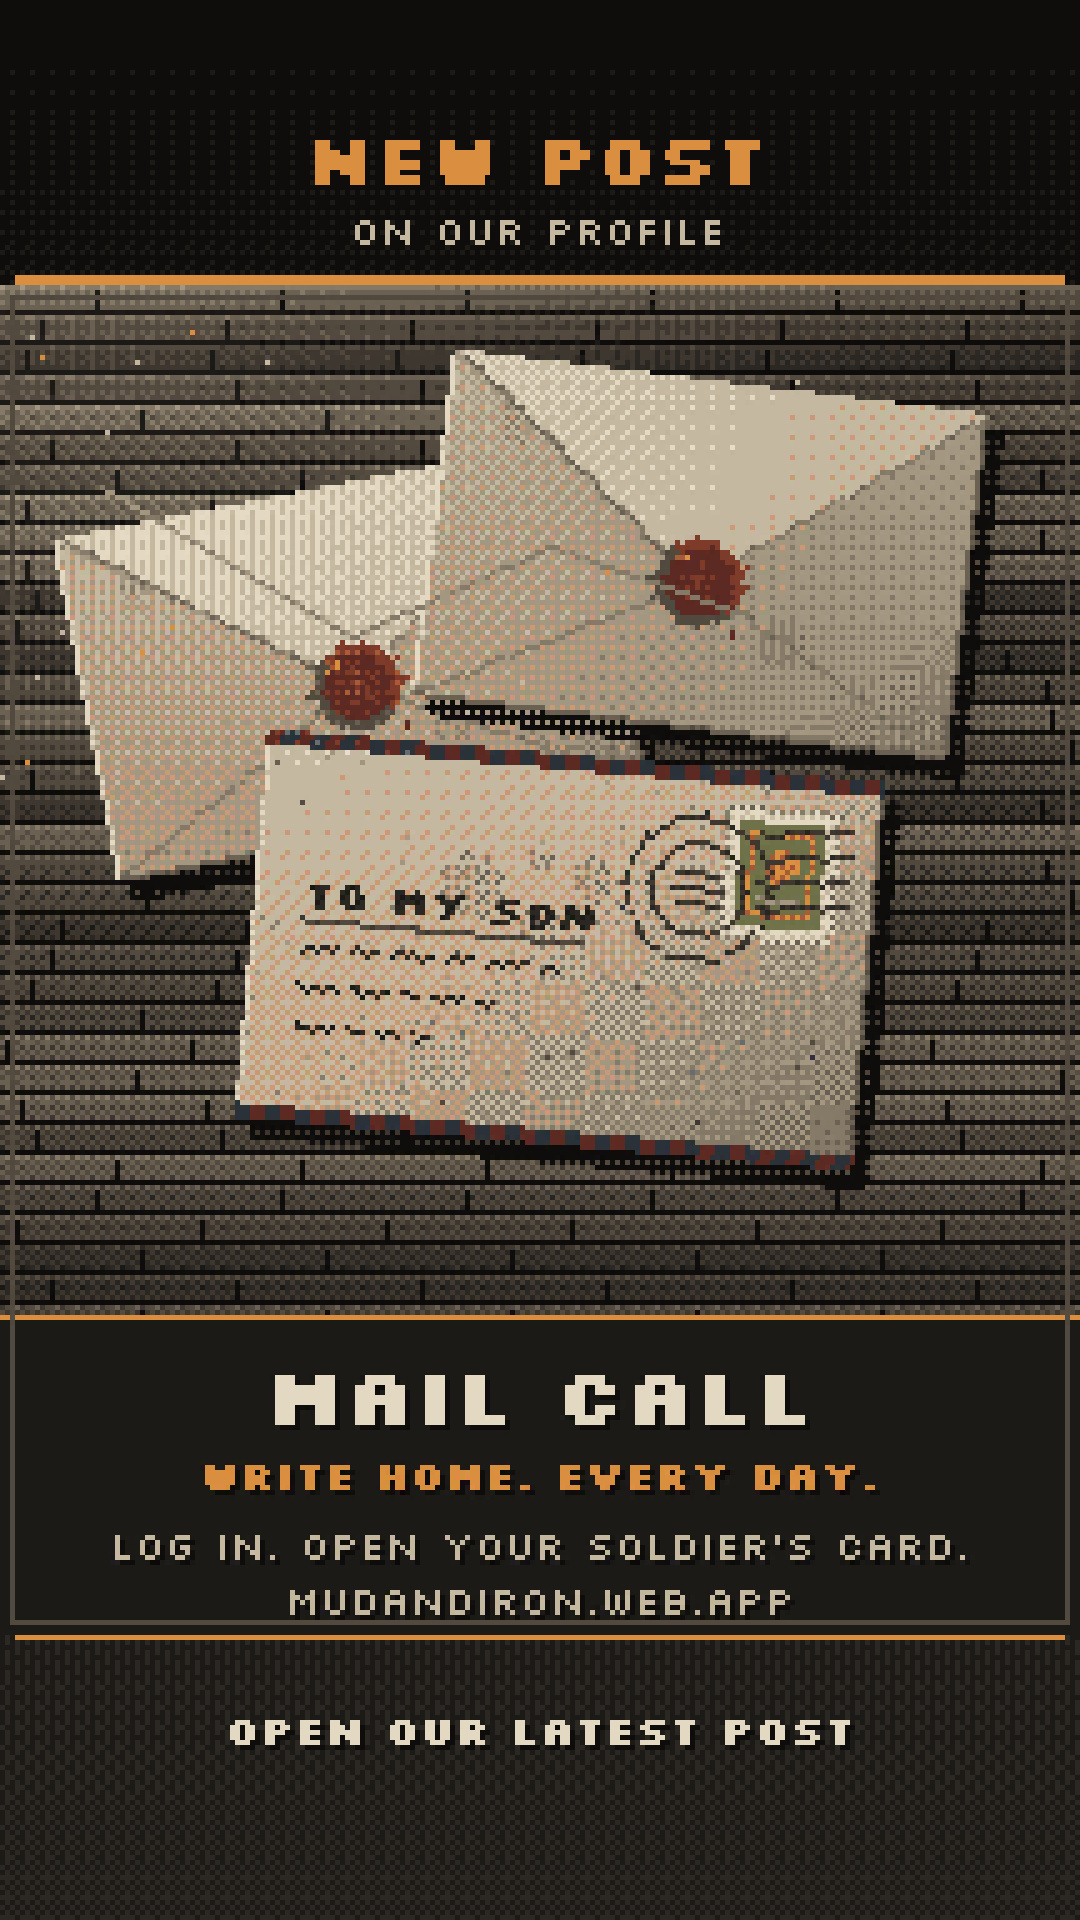
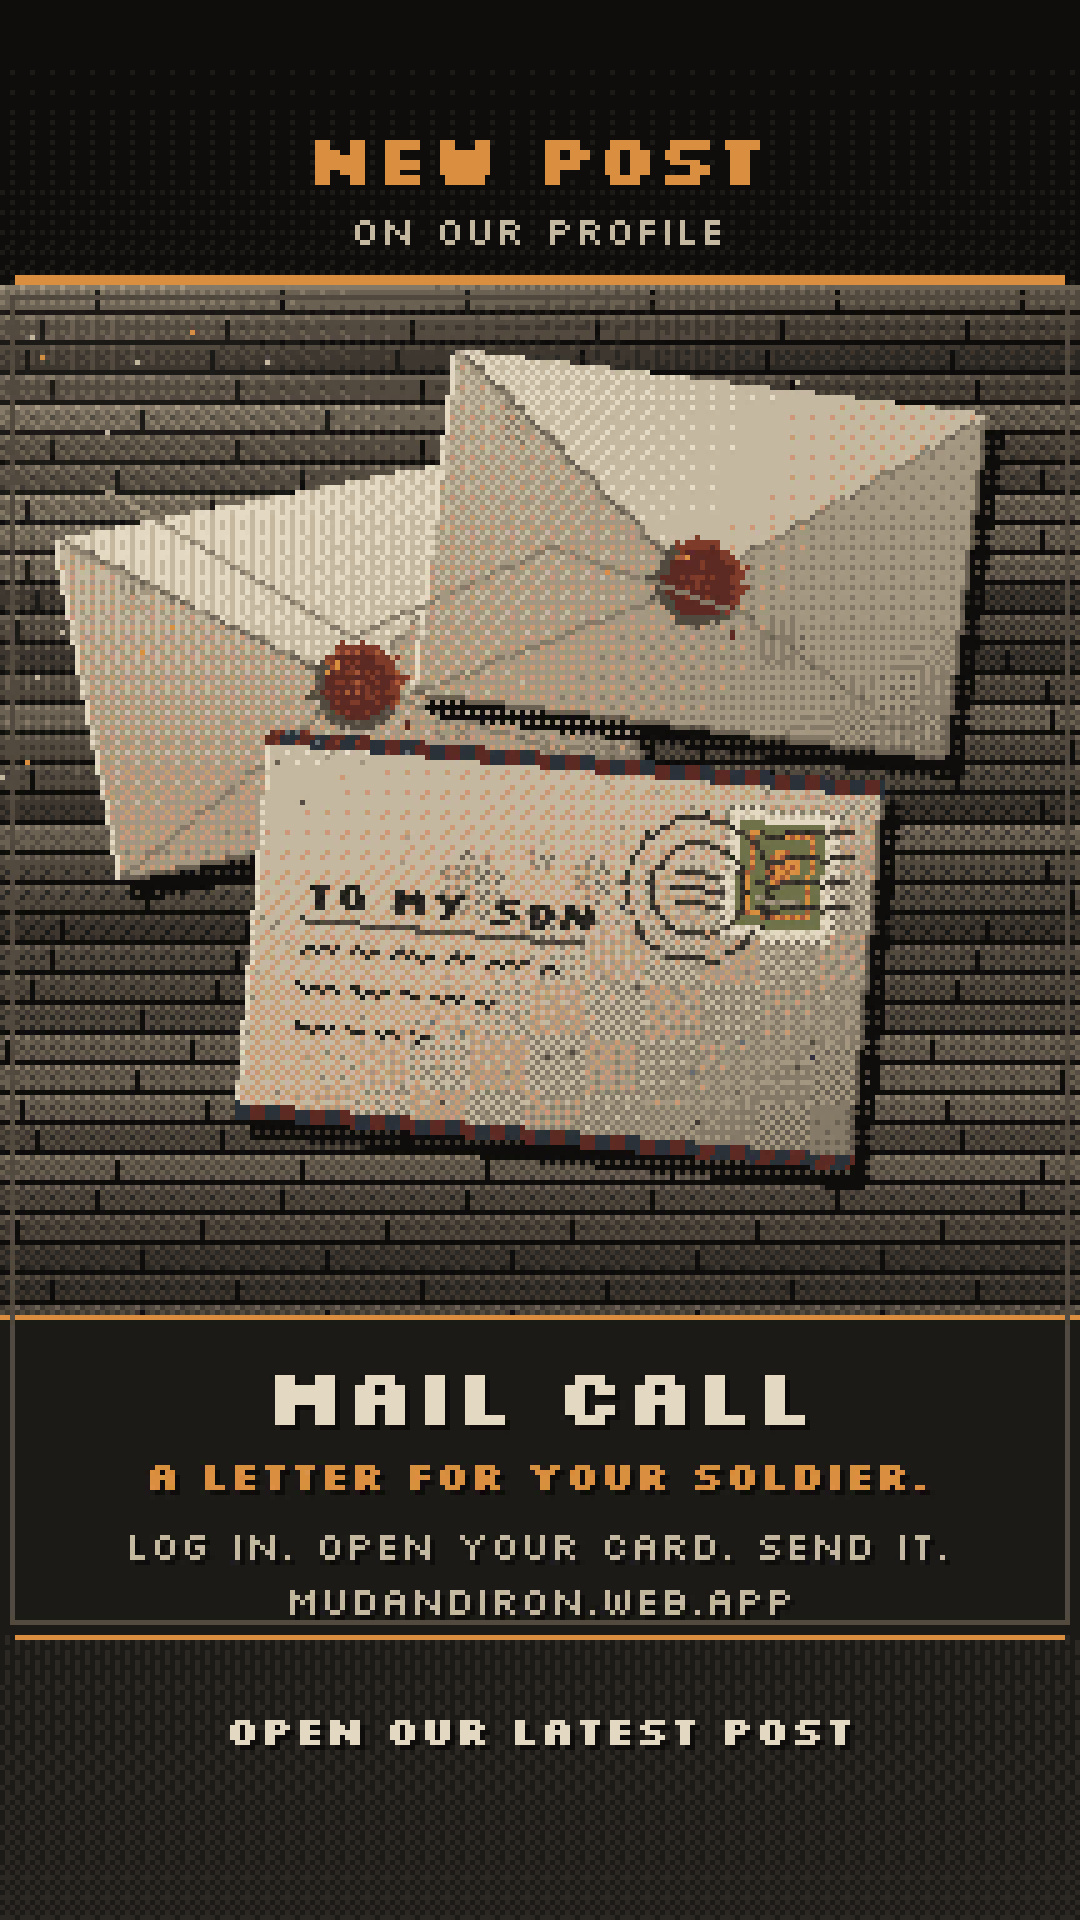
Dopis: Noviny o něm nepíšou; hráč posílá dopis svému vojákovi (texty hry, post, story)
Claude-Session: https://claude.ai/code/session_01VWWMSwJGFZow7tBNcmKaEZ

Changed region(s): [[0.0917, 0.75, 0.8861, 0.8125]]

diff --git a/engine/roster.js b/engine/roster.js
@@ -424,14 +424,10 @@ export function dailyTick(state, theme, story, ctx = {}) {
   }
   awardHouseBadges(state, theme); // odznaky rodu (zůstávají v rodu)
   const news = [...(state.news || []).filter((n) => n.day >= day - 1), ...raid.news, ...fight.news]; // zprávy o dobytí kóty jdou první
-  // pošta: kdo včera odeslal dopis domů, má zápis a v novinách je řádek „Mail call“
+  // pošta: hráč „posílá“ svému vojákovi dopis z domova; kdo ho včera dostal, má o něm zápis (v novinách se nezmiňuje)
   const readers = state.soldiers.filter((s) => s.letter === day - 1 && s.status !== 'fallen');
-  if (readers.length) {
-    const LETTERS = ['A letter from home reached {n} before dusk. {n} read it twice and slept a little easier.', '{n} wrote home by candlelight and got the sealed answer before the night shift.', 'Mail came up the line. {n} read the letter in the dugout and kept the envelope.'];
-    for (const s of readers) addEntry(s, day, LETTERS[(s.order || 0) % LETTERS.length].replaceAll('{n}', s.name));
-    const by = theme.factions.map((_, f) => readers.filter((s) => s.faction === f).length);
-    news.push({ day, kind: 'mail', routine: true, h: 'Mail call', text: `${readers.length} soldiers got a letter before the night: ${theme.factions.map((fc, f) => `${by[f]} ${fc.name.replace(/^The /, '')}`).join(', ')}.` });
-  }
+  const LETTERS = ['A letter from home reached {n} before dusk. {n} read it twice and slept a little easier.', 'Mail came up the line with a letter for {n}. {n} read it in the dugout and kept the envelope.', 'A letter from home found {n} before the night shift. {n} folded it small and kept it close.'];
+  for (const s of readers) addEntry(s, day, LETTERS[(s.order || 0) % LETTERS.length].replaceAll('{n}', s.name));
   state.news = [];
   state.chronicle = [...(state.chronicle || []), writeChronicle(state, day, { theme, story, weather, events, decided, news })]; // celá historie, nic se nemaže
   return state;

diff --git a/engine/engine.test.js b/engine/engine.test.js
@@ -1109,7 +1109,7 @@ test('převedení hráče k druhé straně: nové stanoviště, jednotka, zápis
   assert.equal(switchFaction(s, theme, map, 'jonas', 0), null, 'už je u Hegemonie');
 });
 
-test('dopis domů: voják s dopisem z předchozího dne je méně zasahován; v novinách „Mail call“ a zápis', () => {
+test('dopis domů: voják s dopisem z předchozího dne je méně zasahován; v novinách nic, zápis v deníku', () => {
   const run = (withLetter) => {
     let hits = 0;
     for (let r = 0; r < 12; r++) {
@@ -1120,9 +1120,8 @@ test('dopis domů: voják s dopisem z předchozího dne je méně zasahován; v 
       dailyTick(s, T, story);
       hits += s.battle.stats.at(-1).sides.reduce((a, side) => a + side.sev.light + side.sev.heavy + side.sev.crit, 0);
       if (withLetter && r === 0) {
-        const mail = s.chronicle.at(-1).blocks.find((b) => b.h === 'Mail call');
-        assert.ok(mail && /soldiers got a letter before the night/.test(mail.text), 'Mail call v novinách');
-        assert.ok(s.soldiers.some((x) => x.record.some((e) => /letter|wrote home|Mail came/.test(e[1]))), 'zápis o dopisu');
+        assert.ok(!s.chronicle.at(-1).blocks.some((b) => b.h === 'Mail call'), 'Noviny o dopisech nepíšou');
+        assert.ok(s.soldiers.some((x) => x.record.some((e) => /letter|Mail came/.test(e[1]))), 'zápis o dopisu');
       }
     }
     return hits;

diff --git a/web/src/ui.js b/web/src/ui.js
@@ -385,7 +385,7 @@ export function initUI({ theme, roster, soldiers, tex, onSelect, onZoom }) {
       let sent = false;
       try { sent = localStorage.getItem(`letter:${s.handle}`) === String(roster.day); } catch { /* bez úložiště */ }
       L.disabled = sent;
-      L.textContent = sent ? '✉ Letter sent. 15% safer tonight' : '✉ Send a letter home (15% safer tonight)';
+      L.textContent = sent ? '✉ Letter sent. 15% safer tonight' : '✉ Send your soldier a letter (15% safer tonight)';
       L.onclick = async () => {
         L.disabled = true;
         const owner = await signInAsOwner(s, toast).catch(() => null);

diff --git a/web/index.html b/web/index.html
@@ -84,7 +84,7 @@
         <button id="card-share">Share</button>
         <button id="card-claim" class="primary">This is me: claim</button>
         <button id="card-transfer" hidden>Request a transfer</button>
-        <button id="card-letter" hidden>✉ Send a letter home</button>
+        <button id="card-letter" hidden>✉ Send your soldier a letter</button>
       </div>
       <div id="card-transfer-box" hidden></div>
       <p id="card-account" class="muted" hidden></p>

diff --git a/marketing/make_letter_hand.py b/marketing/make_letter_hand.py
@@ -198,8 +198,8 @@ def make():
     d.rectangle((0, ART_H, W, H), fill=P["dark"])
     d.line((0, ART_H, W, ART_H), fill=P["gold"])
     text_c(d, W // 2, ART_H + 5, "MAIL CALL", font(16, True), P["white"])
-    text_c(d, W // 2, ART_H + 26, "WRITE HOME. EVERY DAY.", font(8, True), P["gold"])
-    text_c(d, W // 2, ART_H + 40, "LOG IN. OPEN YOUR SOLDIER'S CARD.", font(8), P["pale"])
+    text_c(d, W // 2, ART_H + 26, "A LETTER FOR YOUR SOLDIER.", font(8, True), P["gold"])
+    text_c(d, W // 2, ART_H + 40, "LOG IN. OPEN YOUR CARD. SEND IT.", font(8), P["pale"])
     text_c(d, W // 2, ART_H + 51, "MUDANDIRON.WEB.APP", font(8), P["pale"])
     frame(im)
     out = os.path.join(PROMO, "letter_hand_1.jpg")
